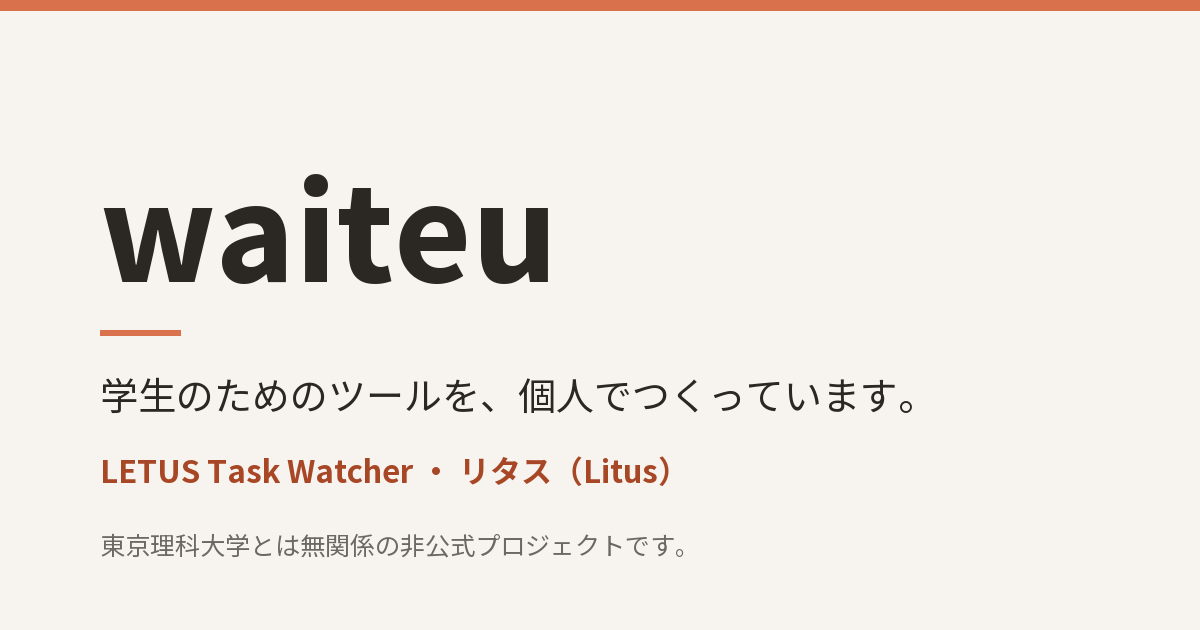
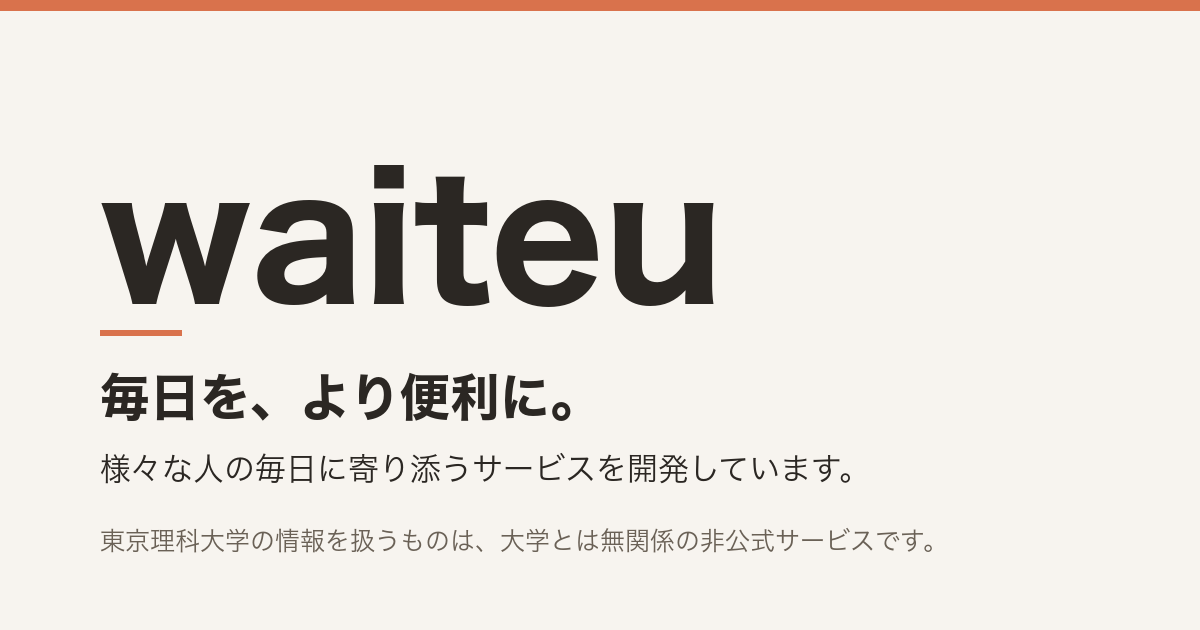
HP: title/meta/OG画像を新しいキャッチコピーに、方針の言い回しを公開時の約束に、内部コメントを除去

diff --git a/public/index.html b/public/index.html
@@ -4,21 +4,21 @@
 <meta charset="utf-8">
 <meta name="viewport" content="width=device-width, initial-scale=1">
 <meta name="color-scheme" content="light dark">
-<title>waiteu</title>
+<title>waiteu — 毎日を、より便利に</title>
 <link rel="icon" type="image/png" sizes="48x48" href="/favicon-waiteu-48.png">
 <link rel="icon" type="image/png" sizes="32x32" href="/favicon-waiteu-32.png">
 <link rel="apple-touch-icon" href="/apple-touch-icon-waiteu.png">
-<meta name="description" content="学生のためのツールを、個人でつくっています。公開中のサービスと、開発中のもの。東京理科大学の情報を扱うものは、大学とは無関係の非公式サービスです。">
+<meta name="description" content="様々な人の毎日に寄り添うサービスを開発しています。公開中のサービスと、開発中のもの。東京理科大学の情報を扱うものは、大学とは無関係の非公式サービスです。">
 <link rel="canonical" href="https://waiteu.dev/">
 <meta property="og:type" content="website">
 <meta property="og:url" content="https://waiteu.dev/">
 <meta property="og:title" content="waiteu — 毎日を、より便利に">
 <meta property="og:description" content="公開中のサービスと、開発中のもの。東京理科大学の情報を扱うものは、大学とは無関係の非公式サービスです。">
-<meta property="og:image" content="https://waiteu.dev/og.png">
+<meta property="og:image" content="https://waiteu.dev/og.png?v=2">
 <meta property="og:locale" content="ja_JP">
 <meta name="twitter:card" content="summary_large_image">
 <meta name="twitter:site" content="@waiteu_dev">
-<meta name="twitter:image" content="https://waiteu.dev/og.png">
+<meta name="twitter:image" content="https://waiteu.dev/og.png?v=2">
 <link rel="preconnect" href="https://fonts.googleapis.com">
 <link rel="preconnect" href="https://fonts.gstatic.com" crossorigin>
 <link href="https://fonts.googleapis.com/css2?family=IBM+Plex+Sans+JP:wght@400;500;700&family=IBM+Plex+Mono:wght@400;500&display=swap" rel="stylesheet">
@@ -226,7 +226,6 @@
   <section class="small" aria-labelledby="dev">
     <div class="wrap">
       <h3 id="dev">開発中</h3>
-      <!-- 仮: 4件の名前は本人が検討中（Michizure・Wayvis・タダシガキ。音漏れの件は名前未定で表示(10/12本人)）。確定するまで公開しない。 -->
       <ul class="dev-list">
         <li><details><summary><b>Michizure <span class="st">開発中</span></b><span class="d">旅行の費用をみんなで記録し、最後に誰が誰にいくら払えばよいかを出すウェブサービス。登録は要りません。</span><ol class="stages" aria-label="進み具合: 試作"><li class="done">構想</li><li class="now">試作</li><li>公開準備</li><li>公開</li></ol><span class="more">クリックで詳しく見る</span></summary><dl class="facts"><div><dt>開発期間</dt><dd>2026年8月〜</dd></div><div><dt>プラットフォーム</dt><dd>Web（スマホ対応）</dd></div><div><dt>使用技術</dt><dd>TypeScript、Cloudflare Workers</dd></div></dl></details></li>
         <li><details><summary><b>Wayvis <span class="st">開発中</span></b><span class="d">練習に向く周回ルートを作り、走った後に合図や一時停止のタイミングを振り返れる運転アプリ。</span><ol class="stages" aria-label="進み具合: 試作"><li class="done">構想</li><li class="now">試作</li><li>公開準備</li><li>公開</li></ol><span class="more">クリックで詳しく見る</span></summary><dl class="facts"><div><dt>開発期間</dt><dd>2026年9月〜</dd></div><div><dt>プラットフォーム</dt><dd>iPhone（開発中）</dd></div><div><dt>使用技術</dt><dd>React Native（Expo）</dd></div></dl></details></li>
@@ -241,7 +240,7 @@
       <p class="pg-body">東京理科大学の情報を扱わないサービスに向けた約束です。</p>
       <ul class="rules">
         <li><b>有料にするときは、先に知らせます。</b><span>何が無料のまま残るかを先に伝えます。黙って始めることはしません。</span></li>
-        <li><b>扱う情報と使い道を、サービスごとに書きます。</b><span>各サービスの利用規約とプライバシーポリシーに書いています。</span></li>
+        <li><b>扱う情報と使い道を、サービスごとに書きます。</b><span>サービスを公開するときに、利用規約とプライバシーポリシーに書きます。</span></li>
       </ul>
     </div>
   </section>
